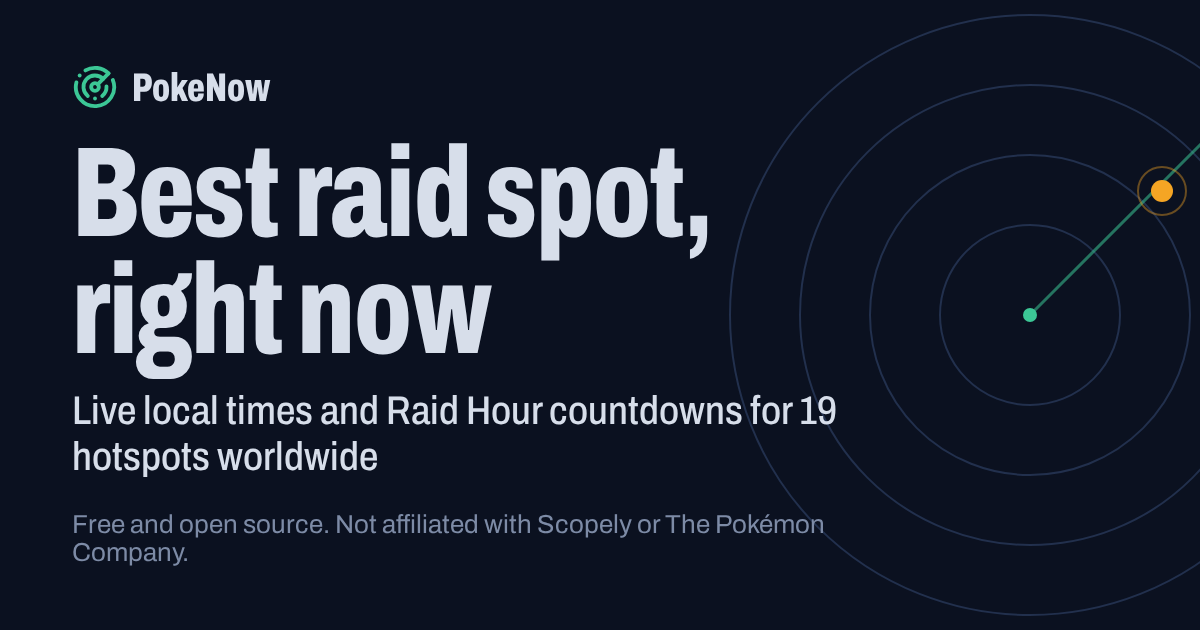
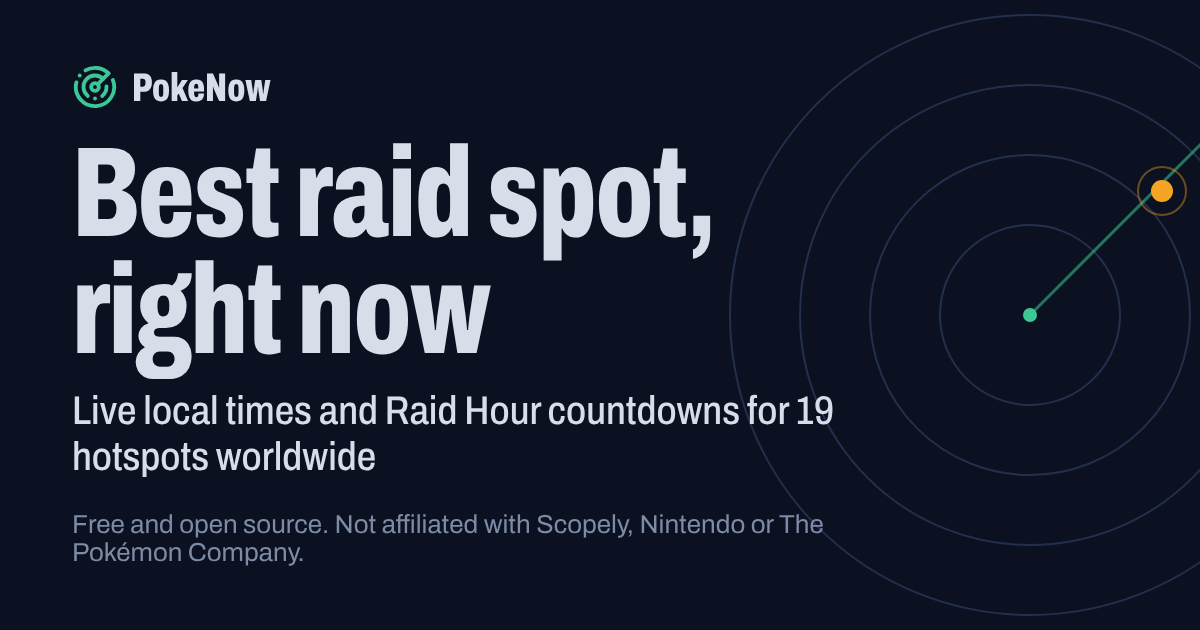
fix(legal): name Nintendo in the not-affiliated disclaimer
Pokémon GO is operated by Scopely (formerly Niantic's games business), and
the Pokémon trademarks belong to Nintendo, Creatures, GAME FREAK and The
Pokémon Company. The disclaimer named only Scopely and The Pokémon Company;
add Nintendo in all 14 locales, README, privacy policy and the home preview
image. Niantic is not added: it no longer operates the game.

Copy review for ad review: the rest of the UI text already avoids
location-changing wording and states that PokeNow doesn't provide or endorse
such tools; no other changes needed.

Claude-Session: https://claude.ai/code/session_01MwFTWed9kigzMTiod1xk47

diff --git a/src/i18n/locales/th.ts b/src/i18n/locales/th.ts
@@ -109,7 +109,7 @@ export const th: Messages = {
   },
   footer: {
     disclaimer:
-      'PokeNow เป็นเครื่องมือที่แฟนสร้างขึ้นเพื่อติดตามช่วงเวลาเรดทั่วโลกและนัดเล่นเรดทางไกล ไม่มีส่วนเกี่ยวข้องกับ Scopely หรือ The Pokémon Company',
+      'PokeNow เป็นเครื่องมือที่แฟนสร้างขึ้นเพื่อติดตามช่วงเวลาเรดทั่วโลกและนัดเล่นเรดทางไกล ไม่มีส่วนเกี่ยวข้องกับ Scopely, Nintendo หรือ The Pokémon Company',
     extra:
       'ปัจจุบัน Pokémon GO ดำเนินการโดย Scopely Pokémon และชื่อที่เกี่ยวข้องเป็นเครื่องหมายการค้าของเจ้าของแต่ละราย PokeNow ไม่ได้ให้หรือแนะนำเครื่องมือเปลี่ยนตำแหน่ง โปรดเล่นตามข้อกำหนดการให้บริการของเกม เวลากิจกรรมอิงตามเวลาท้องถิ่นและอาจเปลี่ยนได้ โปรดตรวจสอบประกาศทางการ',
     source: 'ซอร์สโค้ดบน GitHub (MIT)',

diff --git a/src/i18n/locales/hi.ts b/src/i18n/locales/hi.ts
@@ -109,7 +109,7 @@ export const hi: Messages = {
   },
   footer: {
     disclaimer:
-      'PokeNow दुनिया भर के रेड समय पर नज़र रखने और रिमोट रेड तय करने के लिए प्रशंसकों का बनाया टूल है। इसका Scopely या The Pokémon Company से कोई संबंध नहीं है।',
+      'PokeNow दुनिया भर के रेड समय पर नज़र रखने और रिमोट रेड तय करने के लिए प्रशंसकों का बनाया टूल है। इसका Scopely, Nintendo या The Pokémon Company से कोई संबंध नहीं है।',
     extra:
       'Pokémon GO वर्तमान में Scopely द्वारा संचालित है। Pokémon और संबंधित नाम उनके संबंधित मालिकों के ट्रेडमार्क हैं। PokeNow लोकेशन बदलने वाले टूल न देता है न सुझाता है; कृपया गेम की सेवा शर्तों के अनुसार खेलें। इवेंट का समय स्थानीय समय के अनुसार है और बदल सकता है, इसलिए आधिकारिक घोषणाएँ देखें।',
     source: 'GitHub पर सोर्स कोड (MIT)',

diff --git a/src/i18n/locales/ja.ts b/src/i18n/locales/ja.ts
@@ -107,7 +107,7 @@ export const ja: Messages = {
   },
   footer: {
     disclaimer:
-      'PokeNowは世界のレイド時間帯を確認し、リモートレイドを調整するためのファンメイドツールです。ScopelyおよびThe Pokémon Companyとは関係ありません。',
+      'PokeNowは世界のレイド時間帯を確認し、リモートレイドを調整するためのファンメイドツールです。Scopely、任天堂およびThe Pokémon Companyとは関係ありません。',
     extra:
       'Pokémon GOは現在Scopelyが運営しています。Pokémonおよび関連する名称は各権利者の商標です。PokeNowは位置情報を変更するツールを提供・推奨しません。ゲームの利用規約を守ってプレイしてください。イベント時間は現地時刻の慣例で、変更される場合があります。公式のお知らせを確認してください。',
     source: 'GitHubのソース(MIT)',

diff --git a/src/i18n/locales/tr.ts b/src/i18n/locales/tr.ts
@@ -109,7 +109,7 @@ export const tr: Messages = {
   },
   footer: {
     disclaimer:
-      'PokeNow, dünya genelindeki baskın saatlerini takip etmek ve uzaktan baskınları koordine etmek için hayranlar tarafından yapılmış bir araçtır. Scopely veya The Pokémon Company ile bağlantılı değildir.',
+      'PokeNow, dünya genelindeki baskın saatlerini takip etmek ve uzaktan baskınları koordine etmek için hayranlar tarafından yapılmış bir araçtır. Scopely, Nintendo veya The Pokémon Company ile bağlantılı değildir.',
     extra:
       'Pokémon GO şu anda Scopely tarafından işletilmektedir. Pokémon ve ilgili adlar, sahiplerinin ticari markalarıdır. PokeNow konum değiştirme araçları sağlamaz ve önermez; lütfen oyunun Hizmet Şartları’na uygun oyna. Etkinlik saatleri yerel saate göredir ve değişebilir, resmi duyuruları kontrol et.',
     source: 'GitHub’da kaynak kod (MIT)',

diff --git a/src/i18n/locales/fr.ts b/src/i18n/locales/fr.ts
@@ -107,7 +107,7 @@ export const fr: Messages = {
   },
   footer: {
     disclaimer:
-      'PokeNow est un outil créé par des fans pour suivre les créneaux de raids dans le monde et coordonner les raids à distance. Sans lien avec Scopely ni The Pokémon Company.',
+      'PokeNow est un outil créé par des fans pour suivre les créneaux de raids dans le monde et coordonner les raids à distance. Sans lien avec Scopely, Nintendo ni The Pokémon Company.',
     extra:
       'Pokémon GO est actuellement exploité par Scopely. Pokémon et les noms associés sont des marques de leurs propriétaires respectifs. PokeNow ne fournit ni ne recommande d’outil de modification de position ; respectez les conditions d’utilisation du jeu. Les horaires d’événements suivent l’heure locale et peuvent changer : consultez les annonces officielles.',
     source: 'Code source sur GitHub (MIT)',

diff --git a/src/i18n/locales/es.ts b/src/i18n/locales/es.ts
@@ -107,7 +107,7 @@ export const es: Messages = {
   },
   footer: {
     disclaimer:
-      'PokeNow es una herramienta hecha por fans para seguir los horarios de incursiones en el mundo y coordinar incursiones a distancia. No está afiliada a Scopely ni a The Pokémon Company.',
+      'PokeNow es una herramienta hecha por fans para seguir los horarios de incursiones en el mundo y coordinar incursiones a distancia. No está afiliada a Scopely, Nintendo ni The Pokémon Company.',
     extra:
       'Pokémon GO está operado actualmente por Scopely. Pokémon y los nombres relacionados son marcas de sus respectivos titulares. PokeNow no ofrece ni recomienda herramientas para cambiar de ubicación; juega respetando los Términos de servicio. Los horarios de eventos siguen la hora local y pueden cambiar, así que consulta los anuncios oficiales.',
     source: 'Código fuente en GitHub (MIT)',

diff --git a/src/i18n/locales/pt-BR.ts b/src/i18n/locales/pt-BR.ts
@@ -107,7 +107,7 @@ export const ptBR: Messages = {
   },
   footer: {
     disclaimer:
-      'O PokeNow é uma ferramenta feita por fãs para acompanhar os horários de reides no mundo e coordenar reides remotas. Não é afiliado à Scopely nem à The Pokémon Company.',
+      'O PokeNow é uma ferramenta feita por fãs para acompanhar os horários de reides no mundo e coordenar reides remotas. Não é afiliado à Scopely, à Nintendo nem à The Pokémon Company.',
     extra:
       'O Pokémon GO é atualmente operado pela Scopely. Pokémon e os nomes relacionados são marcas de seus respectivos donos. O PokeNow não oferece nem recomenda ferramentas de mudança de localização; jogue respeitando os Termos de Serviço. Os horários de eventos seguem o horário local e podem mudar, então confira os anúncios oficiais.',
     source: 'Código-fonte no GitHub (MIT)',

diff --git a/src/i18n/locales/ko.ts b/src/i18n/locales/ko.ts
@@ -107,7 +107,7 @@ export const ko: Messages = {
   },
   footer: {
     disclaimer:
-      'PokeNow는 전 세계 레이드 시간대를 확인하고 원격 레이드를 조율하기 위한 팬 제작 도구입니다. Scopely 및 The Pokémon Company와 관련이 없습니다.',
+      'PokeNow는 전 세계 레이드 시간대를 확인하고 원격 레이드를 조율하기 위한 팬 제작 도구입니다. Scopely, Nintendo, The Pokémon Company와 관련이 없습니다.',
     extra:
       '현재 Pokémon GO는 Scopely가 운영합니다. Pokémon 및 관련 명칭은 각 권리자의 상표입니다. PokeNow는 위치 변경 도구를 제공하거나 권장하지 않으니 게임 이용약관을 지켜 주세요. 이벤트 시간은 현지 시각 기준이며 바뀔 수 있으니 공식 공지를 확인하세요.',
     source: 'GitHub 소스 (MIT)',

diff --git a/src/i18n/locales/de.ts b/src/i18n/locales/de.ts
@@ -107,7 +107,7 @@ export const de: Messages = {
   },
   footer: {
     disclaimer:
-      'PokeNow ist ein Fan-Tool, um weltweite Raid-Zeiten zu verfolgen und Fern-Raids zu koordinieren. Nicht verbunden mit Scopely oder The Pokémon Company.',
+      'PokeNow ist ein Fan-Tool, um weltweite Raid-Zeiten zu verfolgen und Fern-Raids zu koordinieren. Nicht verbunden mit Scopely, Nintendo oder The Pokémon Company.',
     extra:
       'Pokémon GO wird derzeit von Scopely betrieben. Pokémon und alle zugehörigen Namen sind Marken ihrer jeweiligen Inhaber. PokeNow bietet keine Tools zur Standortänderung an und empfiehlt sie nicht; bitte halte dich an die Nutzungsbedingungen des Spiels. Event-Zeiten richten sich nach der Ortszeit und können sich ändern, prüfe daher die offiziellen Ankündigungen.',
     source: 'Quellcode auf GitHub (MIT)',

diff --git a/src/i18n/locales/id.ts b/src/i18n/locales/id.ts
@@ -109,7 +109,7 @@ export const id: Messages = {
   },
   footer: {
     disclaimer:
-      'PokeNow adalah alat buatan penggemar untuk memantau jam raid di seluruh dunia dan mengoordinasikan raid jarak jauh. Tidak berafiliasi dengan Scopely atau The Pokémon Company.',
+      'PokeNow adalah alat buatan penggemar untuk memantau jam raid di seluruh dunia dan mengoordinasikan raid jarak jauh. Tidak berafiliasi dengan Scopely, Nintendo, atau The Pokémon Company.',
     extra:
       'Pokémon GO saat ini dioperasikan oleh Scopely. Pokémon dan nama terkait adalah merek dagang milik pemiliknya masing-masing. PokeNow tidak menyediakan atau menganjurkan alat pengubah lokasi; mainlah sesuai Ketentuan Layanan game. Waktu acara mengikuti waktu setempat dan bisa berubah, jadi periksa pengumuman resmi.',
     source: 'Kode sumber di GitHub (MIT)',

diff --git a/src/i18n/locales/it.ts b/src/i18n/locales/it.ts
@@ -107,7 +107,7 @@ export const it: Messages = {
   },
   footer: {
     disclaimer:
-      'PokeNow è uno strumento creato da fan per seguire gli orari dei raid nel mondo e coordinare i raid a distanza. Non affiliato a Scopely o a The Pokémon Company.',
+      'PokeNow è uno strumento creato da fan per seguire gli orari dei raid nel mondo e coordinare i raid a distanza. Non affiliato a Scopely, Nintendo o The Pokémon Company.',
     extra:
       'Pokémon GO è attualmente gestito da Scopely. Pokémon e i nomi correlati sono marchi dei rispettivi proprietari. PokeNow non fornisce né consiglia strumenti per cambiare posizione; gioca nel rispetto dei Termini di servizio. Gli orari degli eventi seguono l’ora locale e possono cambiare: controlla gli annunci ufficiali.',
     source: 'Codice sorgente su GitHub (MIT)',

diff --git a/src/i18n/locales/en.ts b/src/i18n/locales/en.ts
@@ -110,7 +110,7 @@ export const en: Messages = {
   },
   footer: {
     disclaimer:
-      'PokeNow is a fan-made utility for tracking global raid hours and coordinating remote raids. Not affiliated with Scopely or The Pokémon Company.',
+      'PokeNow is a fan-made utility for tracking global raid hours and coordinating remote raids. Not affiliated with Scopely, Nintendo or The Pokémon Company.',
     extra:
       'Pokémon GO is currently operated by Scopely. Pokémon and all related names are trademarks of their respective owners. PokeNow doesn’t provide or endorse location-changing tools; please play within the game’s Terms of Service. Event times are local-time conventions and may change, so check official announcements.',
     source: 'Source on GitHub (MIT)',
